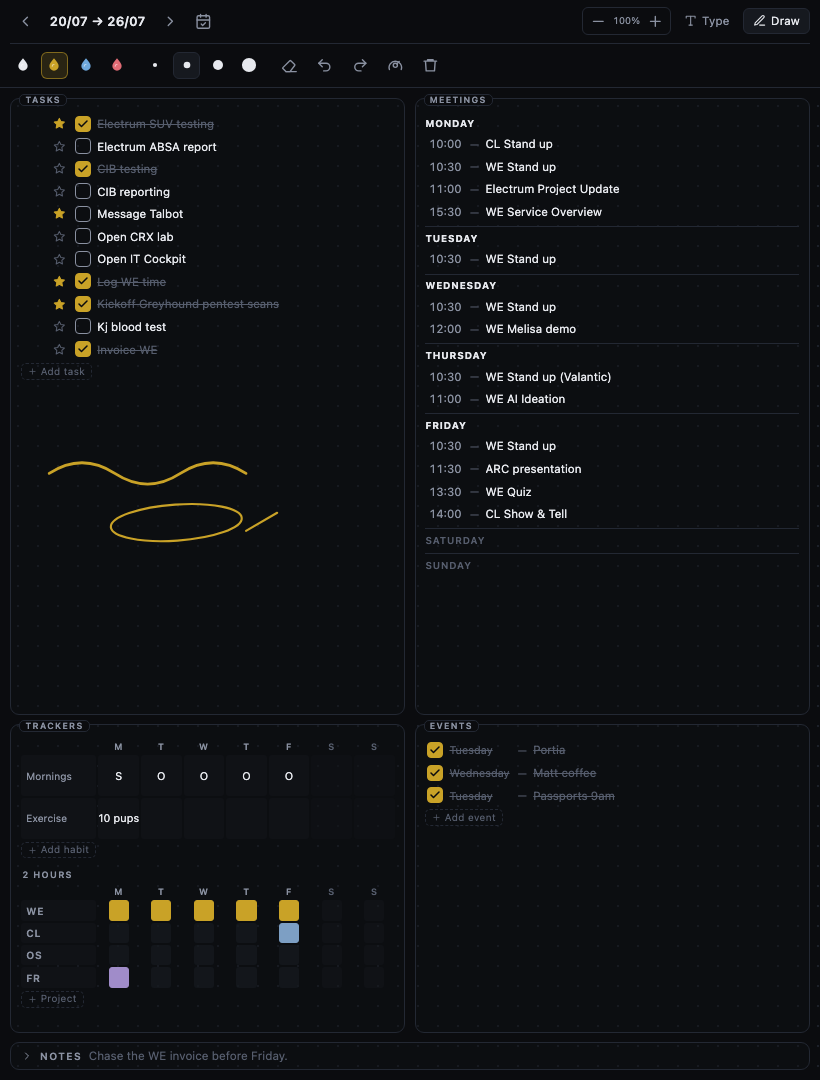
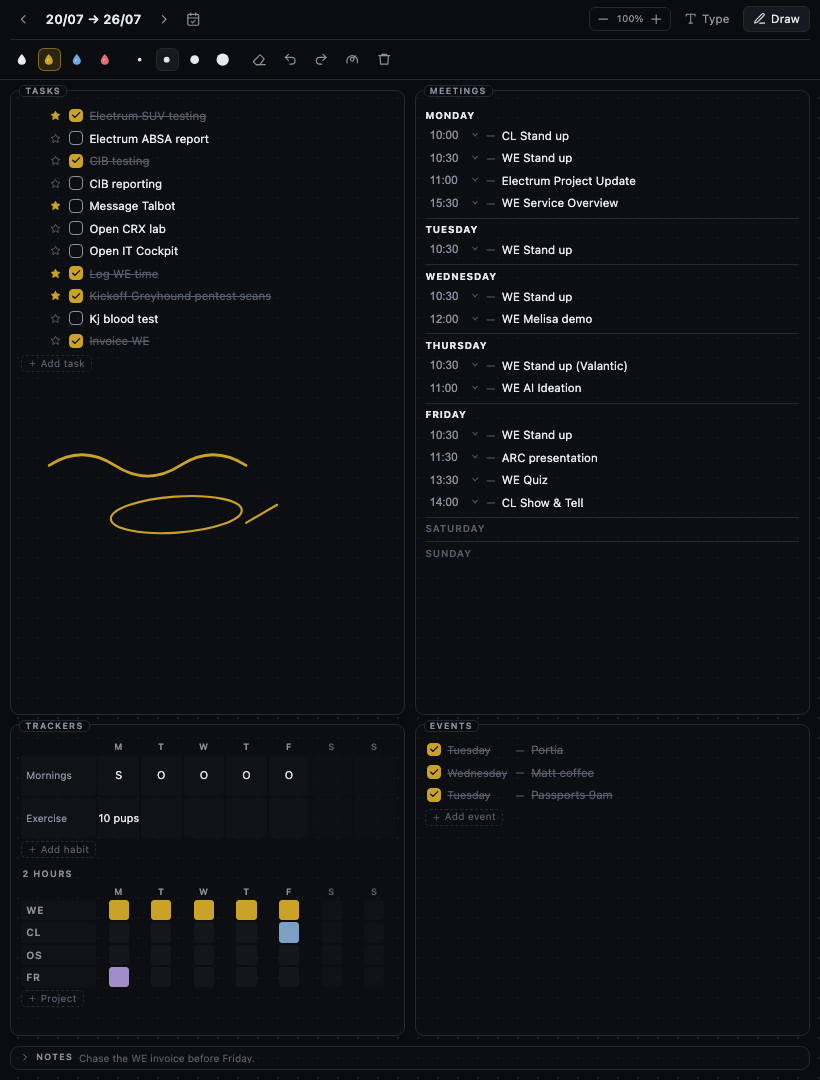
Pick meeting times from a list, and keep each day in time order
The time was a free-text field, which on a tablet means the keyboard for
something that only ever takes one of a few dozen values. It is a picker
now — every half hour by default, switchable to quarter-hours or hours in
settings — with the title beside it. A time already in a note that does
not sit on the current step stays selectable, so changing the step never
loses one.

Each day sorts by time, earliest first, with anything untimed at the end.
Sorting runs when a time is chosen rather than on every keystroke, and the
row you were editing keeps focus wherever it lands. Adding a meeting now
starts one step after the last one in that day, or nine o'clock in an
empty day.

The time parsing and ordering moved to date.ts so they can be tested
without the app: sixteen checks covering single-digit hours, dot
separators, impossible values, stable order for equal times, untimed rows
last, and every slot the picker offers surviving a round trip.

diff --git a/src/view.ts b/src/view.ts
@@ -14,7 +14,13 @@ import {
 } from "./types";
 import { parseNote, readExtraFrontmatter, serializeNote } from "./serialize";
 import { InkLayer, InkMode } from "./inklayer";
-import { addDays, parseISODate } from "./date";
+import {
+	addDays,
+	byTime,
+	minutesToTime,
+	parseISODate,
+	timeToMinutes,
+} from "./date";
 import { bulletDot, bulletIcon, bulletSwatch } from "./icons";
 import type BulletPlugin from "./main";
 
@@ -620,6 +626,7 @@ export class BulletView extends TextFileView {
 
 		this.dayOrder.forEach((day, column) => {
 			const items = this.model.meetings[day] ?? (this.model.meetings[day] = []);
+			this.sortDay(day);
 			const block = host.createDiv({ cls: "bl-day" });
 			block.dataset.day = String(day);
 			if (items.length === 0) block.addClass("is-empty");
@@ -632,15 +639,16 @@ export class BulletView extends TextFileView {
 			bulletIcon(add, "plus");
 			add.setAttr("aria-label", `Add a meeting on ${DAY_NAMES[day]}`);
 			add.onclick = () => {
-				items.push({ id: uid("m"), time: "", text: "" });
+				const fresh: Meeting = {
+					id: uid("m"),
+					time: this.nextSlot(items),
+					text: "",
+				};
+				items.push(fresh);
+				this.sortDay(day);
 				this.renderMeetings();
-				// Focus the row just added, not whichever day happens to sort last.
-				this.focusLast(
-					this.hosts.meetings?.querySelector<HTMLElement>(
-						`.bl-day[data-day="${day}"]`
-					) ?? undefined,
-					".bl-time-input"
-				);
+				// Focus the row just added, wherever the sort has put it.
+				this.focusMeeting(day, fresh.id);
 				this.touch();
 			};
 
@@ -648,17 +656,22 @@ export class BulletView extends TextFileView {
 
 			items.forEach((item, index) => {
 				const row = list.createDiv({ cls: "bl-row bl-meeting" });
+				row.dataset.id = item.id;
 
-				const time = row.createEl("input", {
-					cls: "bl-input bl-time-input",
-					attr: { type: "text", placeholder: "00:00", value: item.time },
-				});
-				time.oninput = () => {
+				const timeWrap = row.createDiv({ cls: "bl-time-wrap" });
+				const time = timeWrap.createEl("select", { cls: "bl-time-select" });
+				this.fillTimeOptions(time, item.time);
+				time.value = item.time;
+				time.setAttr("aria-label", "Time");
+				time.onchange = () => {
 					item.time = time.value;
+					// A time change is the only thing that can reorder a day,
+					// so re-sort here rather than on every keystroke.
+					this.sortDay(day);
+					this.renderMeetings();
+					this.focusMeeting(day, item.id);
 					this.touch();
 				};
-
-				row.createSpan({ cls: "bl-dash", text: "—" });
 
 				const text = row.createEl("input", {
 					cls: "bl-input",
@@ -671,7 +684,11 @@ export class BulletView extends TextFileView {
 				text.onkeydown = (e) =>
 					this.listKeys(e, text, index, {
 						insert: (at) =>
-							items.splice(at, 0, { id: uid("m"), time: "", text: "" }),
+							items.splice(at, 0, {
+								id: uid("m"),
+								time: this.nextSlot(items),
+								text: "",
+							}),
 						remove: (at) => items.splice(at, 1),
 						isEmpty: () => item.text.length === 0 && item.time.length === 0,
 						rerender: () => this.renderMeetings(),
@@ -686,6 +703,47 @@ export class BulletView extends TextFileView {
 			});
 
 		});
+	}
+
+	/** Earliest first; anything without a time sits at the end. */
+	private sortDay(day: number): void {
+		const items = this.model.meetings[day];
+		if (items) byTime(items);
+	}
+
+	/** A sensible time for a new meeting: one step after the last one. */
+	private nextSlot(items: Meeting[]): string {
+		const step = this.plugin.settings.meetingTimeStep;
+		let latest = -1;
+		for (const item of items) {
+			const minutes = timeToMinutes(item.time);
+			if (Number.isFinite(minutes)) latest = Math.max(latest, minutes);
+		}
+		if (latest < 0) return minutesToTime(9 * 60);
+		return minutesToTime(latest + step);
+	}
+
+	private fillTimeOptions(select: HTMLSelectElement, current: string): void {
+		select.createEl("option", { value: "", text: "--:--" });
+
+		const step = this.plugin.settings.meetingTimeStep;
+		const slots: string[] = [];
+		for (let m = 0; m < 24 * 60; m += step) slots.push(minutesToTime(m));
+
+		// Keep a time that predates the current step setting selectable.
+		if (current && !slots.includes(current)) {
+			select.createEl("option", { value: current, text: current });
+		}
+		for (const slot of slots) {
+			select.createEl("option", { value: slot, text: slot });
+		}
+	}
+
+	private focusMeeting(day: number, id: string): void {
+		const row = this.hosts.meetings?.querySelector<HTMLElement>(
+			`.bl-day[data-day="${day}"] .bl-meeting[data-id="${id}"]`
+		);
+		row?.querySelector<HTMLInputElement>("input.bl-input")?.focus();
 	}
 
 	private renderEvents(): void {

diff --git a/styles.css b/styles.css
@@ -19,7 +19,7 @@
 .bullet-view {
 	/* Bumped with each release; the diagnostics report reads it back, so a
 	   stale stylesheet can be told apart from one that is being overridden. */
-	--bl-css-version: "1.0.17";
+	--bl-css-version: "1.0.18";
 
 	--bl-scale: 1;
 	--bl-auto: 1;
@@ -812,11 +812,60 @@
 	font-variant-numeric: tabular-nums;
 }
 
-.bullet-view .bl-time-input {
+/* time picker */
+.bullet-view .bl-time-wrap {
+	position: relative;
+	display: inline-flex;
+	align-items: center;
 	flex: 0 0 auto;
-	width: 3.3em;
-	font-variant-numeric: tabular-nums;
 	color: var(--bl-muted);
+}
+
+/* The caret is drawn here rather than on the select, so it takes the current
+   colour and the select itself can stay a plain piece of text. */
+.bullet-view .bl-time-wrap::after {
+	content: "";
+	position: absolute;
+	inset-inline-end: 0.4em;
+	width: 0.36em;
+	height: 0.36em;
+	border-right: 1.5px solid currentColor;
+	border-bottom: 1.5px solid currentColor;
+	transform: translateY(-0.12em) rotate(45deg);
+	opacity: 0.55;
+	pointer-events: none;
+}
+
+.bullet-view .bl-time-select {
+	width: 4.7em;
+	height: calc(var(--bl-row-h) - 0.25em);
+	padding: 0 1.2em 0 0.2em;
+	border: none;
+	border-radius: 4px;
+	background: transparent;
+	box-shadow: none;
+	color: inherit;
+	font-size: 1em;
+	font-variant-numeric: tabular-nums;
+	appearance: none;
+	-webkit-appearance: none;
+	cursor: pointer;
+}
+
+.bullet-view .bl-time-wrap:hover {
+	color: var(--bl-text);
+}
+
+.bullet-view .bl-time-select:focus,
+.bullet-view .bl-time-select:focus-visible {
+	outline: none;
+	box-shadow: inset 0 -1px 0 0 var(--bl-accent);
+}
+
+/* the native list, where the platform lets us style it */
+.bullet-view .bl-time-select option {
+	background: var(--bl-panel);
+	color: var(--bl-text);
 }
 
 /* -------------------------------------------------------------- trackers */

diff --git a/src/settings.ts b/src/settings.ts
@@ -22,6 +22,8 @@ export interface BulletSettings {
 	maxInkDpr: number;
 	/** Page zoom as a percentage; also adjustable from the toolbar. */
 	uiScale: number;
+	/** Minutes between entries in the meeting time picker. */
+	meetingTimeStep: number;
 }
 
 export const DEFAULT_SETTINGS: BulletSettings = {
@@ -42,6 +44,7 @@ export const DEFAULT_SETTINGS: BulletSettings = {
 	compactInk: true,
 	maxInkDpr: 2,
 	uiScale: 100,
+	meetingTimeStep: 30,
 };
 
 function parseList(raw: string): string[] {
@@ -214,6 +217,22 @@ export class BulletSettingTab extends PluginSettingTab {
 					await this.plugin.saveSettings();
 				});
 			});
+
+		new Setting(containerEl)
+			.setName("Meeting times")
+			.setDesc("How far apart the entries in the time picker are.")
+			.addDropdown((d) =>
+				d
+					.addOption("15", "Every 15 minutes")
+					.addOption("30", "Every half hour")
+					.addOption("60", "Every hour")
+					.setValue(String(this.plugin.settings.meetingTimeStep))
+					.onChange(async (v) => {
+						this.plugin.settings.meetingTimeStep = Number(v) || 30;
+						await this.plugin.saveSettings();
+						this.plugin.refreshAllViews();
+					})
+			);
 
 		new Setting(containerEl)
 			.setName("Recurring meetings")

diff --git a/src/date.ts b/src/date.ts
@@ -109,3 +109,28 @@ export function weekKey(start: Date): string {
 	const { year, week } = isoWeek(start);
 	return `${year}-W${pad(week)}`;
 }
+
+/**
+ * Minutes past midnight for an "HH:MM" time, or Infinity when it cannot be
+ * read. Infinity is deliberate: it sorts anything untimed to the end of the
+ * day rather than to the start of it.
+ */
+export function timeToMinutes(time: string): number {
+	const m = /^(\d{1,2})[:.](\d{2})$/.exec(time.trim());
+	if (!m) return Number.POSITIVE_INFINITY;
+	const hours = Number(m[1]);
+	const minutes = Number(m[2]);
+	if (hours > 23 || minutes > 59) return Number.POSITIVE_INFINITY;
+	return hours * 60 + minutes;
+}
+
+/** Minutes past midnight as "HH:MM". */
+export function minutesToTime(total: number): string {
+	const clamped = Math.max(0, Math.min(23 * 60 + 59, Math.round(total)));
+	return `${pad(Math.floor(clamped / 60))}:${pad(clamped % 60)}`;
+}
+
+/** Earliest first, untimed last, and equal times keep the order given. */
+export function byTime<T extends { time: string }>(items: T[]): T[] {
+	return items.sort((a, b) => timeToMinutes(a.time) - timeToMinutes(b.time));
+}

diff --git a/test/README.md b/test/README.md
@@ -33,3 +33,15 @@ its own copy of the star, looked fine.
 npx esbuild src/icons.ts --bundle --format=esm --outfile=test/icons.mjs
 open test/icons.test.html
 ```
+
+## Logic tests
+
+Plain node, no browser. Bundle the module beside the test, then run it:
+
+```bash
+npx esbuild src/date.ts      --bundle --format=esm --platform=node --outfile=test/date.mjs
+npx esbuild src/serialize.ts --bundle --format=esm --platform=node --external:obsidian --outfile=test/bundle.mjs
+node test/time.test.mjs        # time parsing and meeting order
+node test/date.test.mjs        # ISO weeks and filenames
+node test/serialize.test.mjs   # note round-tripping
+```

diff --git a/README.md b/README.md
@@ -17,7 +17,7 @@ landscape is much more comfortable.
 
 - **One page per week**, created automatically, named `2026-W30.md` by default.
 - **Tasks** with tick boxes, a priority star, and drag-to-reorder.
-- **Meetings** grouped by day, each with a time.
+- **Meetings** grouped by day, picked from a time list and kept in time order.
 - **Events** — a dated checklist for the things that aren't meetings.
 - **Habit trackers** — a 7-column grid you fill in however you like: a tick, a
   number, a word.
